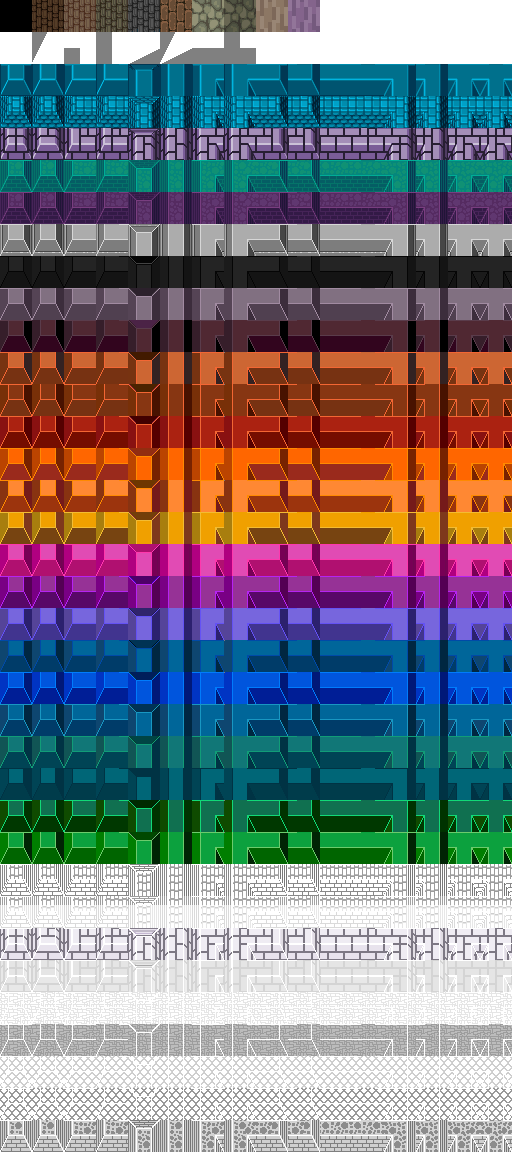
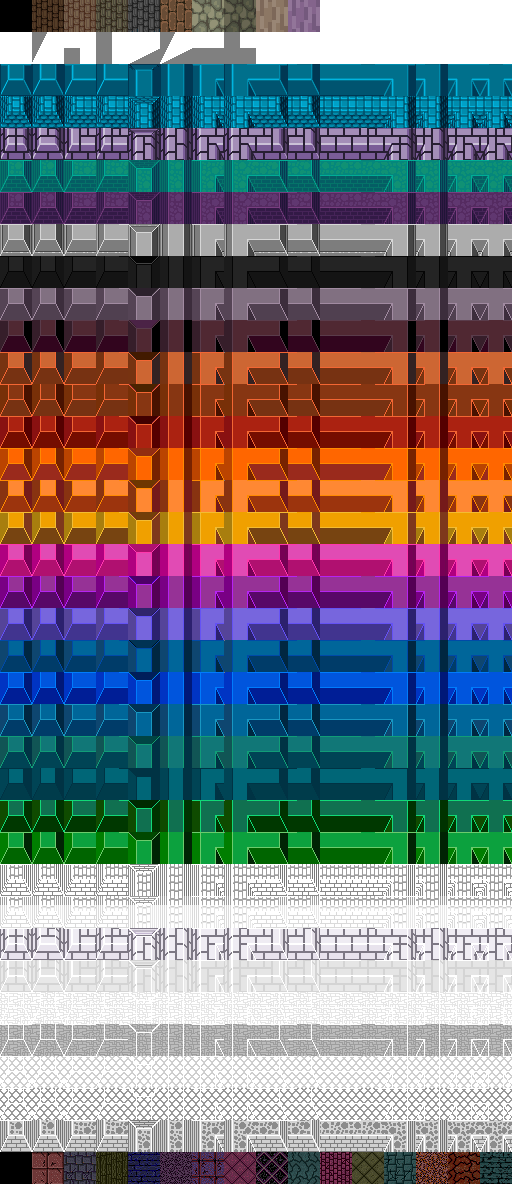
extra g1 floor tiles per level ops 2

diff --git a/js/gauntlet.js b/js/gauntlet.js
@@ -28,7 +28,8 @@ Gauntlet = function() {
 // if there is a non global var method of passing these class inheritance pointers around - I know it not
 		reloaded, Mastercell, Masterthmp, Musicth, Mastermap, levelplus, 
 //	custom g1 tiler on 0x00000F code of floor tiles - save last tile & last cell
-		ftilestr, fcellstr,
+// FCUSTILE is after brikover last wall cover in backgrounds.png
+		ftilestr, fcellstr, FCUSTILE = 36,
 
 // handle death potion bomb rotating score - 
 //				note: NON g1, this is multiplied by score x {n} by current code!
@@ -2194,8 +2195,9 @@ Gauntlet = function() {
 						this.tile(ctx, sprites, cell.wall, DEBUG.WALL || map.level.wall, tx, ty);
 						if (map.level.brikovr) this.tile(ctx, sprites, cell.wall, map.level.brikovr, tx, ty);
 				  }
-				  cell.ctx = ctx;	// for traps turning walls to floor
-				  cell.sprites = sprites;
+				  cell.ctx = ctx;						// for traps turning walls to floor, stalling walls to exits
+				  
+				  cell.sprites = sprites;		//		shootable walls, g2 shot walls, g2 random walls, and so
 				  cell.tileptr = this;
 				  cell.map = map;
 			  }
@@ -2206,9 +2208,9 @@ Gauntlet = function() {
 			  {
 				  var nfl = cell.pixel & 0xF;
 				  if ((cell.pixel & 0xFFFFF0) == 0xA08060)
-						this.tile(ctx, sprites, nfl, 0, tx, ty);
+						this.tile(ctx, sprites, nfl, FCUSTILE, tx, ty);
 				  else if (((fcellstr.pixel & 0xFFFFF0) == 0xA08060) && (fcellstr.pixel & 0xF))
-						this.tile(ctx, sprites, ftilestr, 0, tx, ty);
+						this.tile(ctx, sprites, ftilestr, FCUSTILE, tx, ty);
 				  ftilestr = nfl; // store for non floor content tests
 			  }
 			  else
